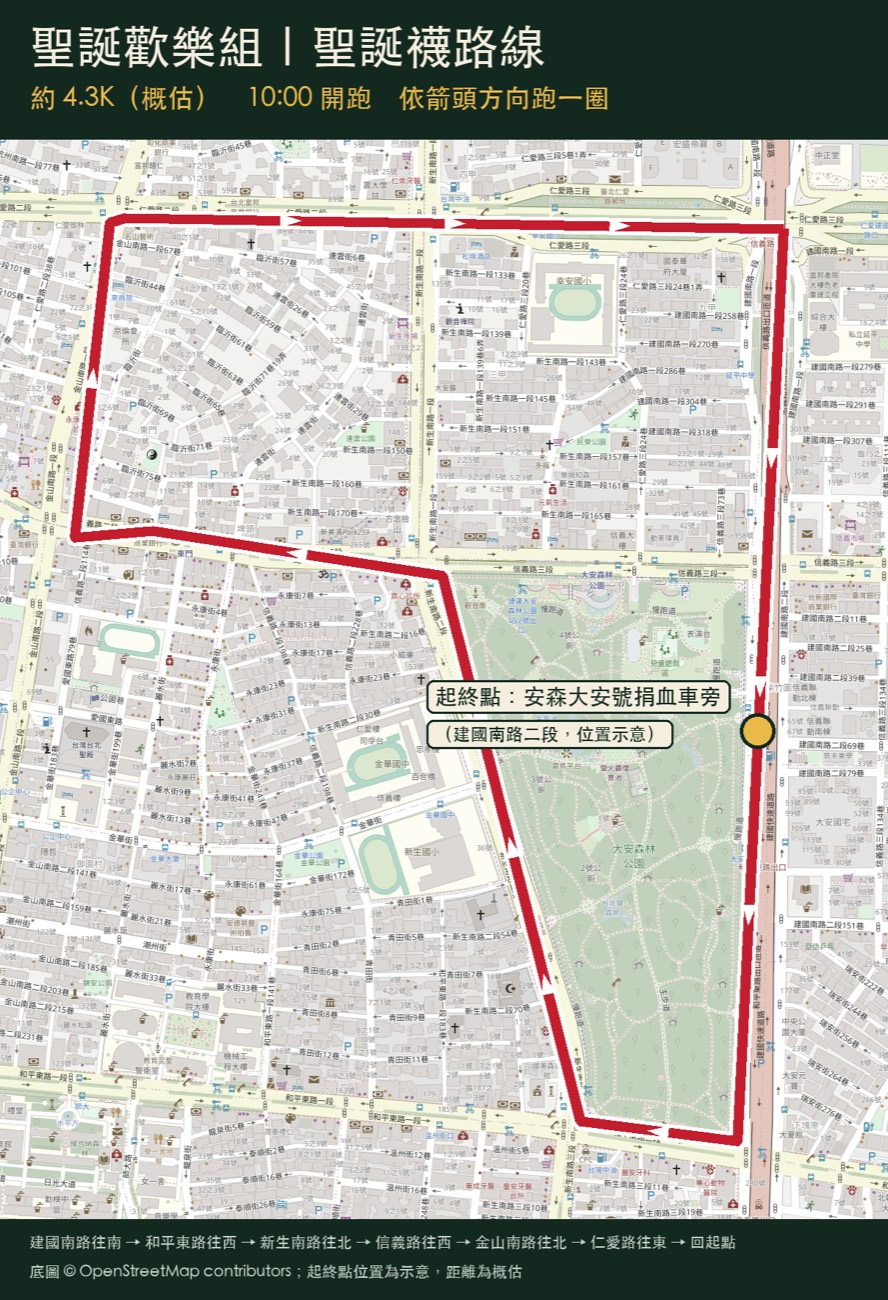
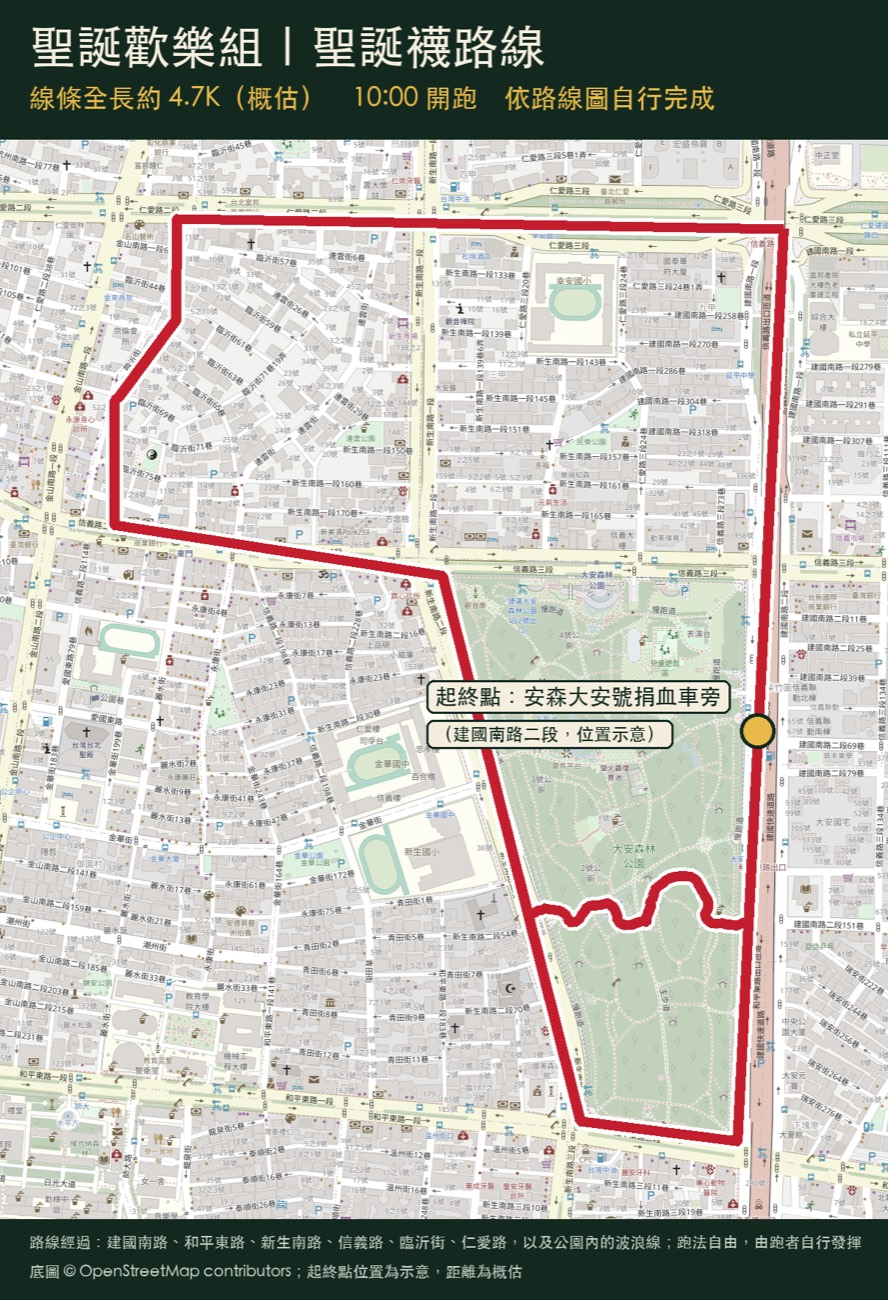
Add files via upload

diff --git a/index.html b/index.html
@@ -249,7 +249,7 @@ footer a{color:var(--gold)}
 
     <div class="maps">
       <a href="route-endurance.jpg" target="_blank" rel="noopener"><img src="route-endurance.jpg" alt="聖誕耐力組公園外圍路線圖：沿信義路、建國南路、和平東路、新生南路繞公園外圍，起終點捷運大安森林公園站 5 號出口" width="842" height="1300" loading="lazy" /><span>聖誕耐力組｜公園外圍路線圖（點圖放大）</span></a>
-      <a href="route-fun.jpg" target="_blank" rel="noopener"><img src="route-fun.jpg" alt="聖誕歡樂組聖誕襪路線圖：建國南路往南、和平東路往西、新生南路往北、信義路往西、金山南路往北、仁愛路往東回起點，起終點安森大安號捐血車旁" width="888" height="1300" loading="lazy" /><span>聖誕歡樂組｜聖誕襪路線圖（點圖放大）</span></a>
+      <a href="route-fun.jpg" target="_blank" rel="noopener"><img src="route-fun.jpg" alt="聖誕歡樂組聖誕襪路線圖：經過建國南路、和平東路、新生南路、信義路、臨沂街、仁愛路，以及公園內的波浪線，跑法自由；起終點安森大安號捐血車旁" width="888" height="1300" loading="lazy" /><span>聖誕歡樂組｜聖誕襪路線圖（點圖放大）</span></a>
     </div>
 
     <div class="points">
